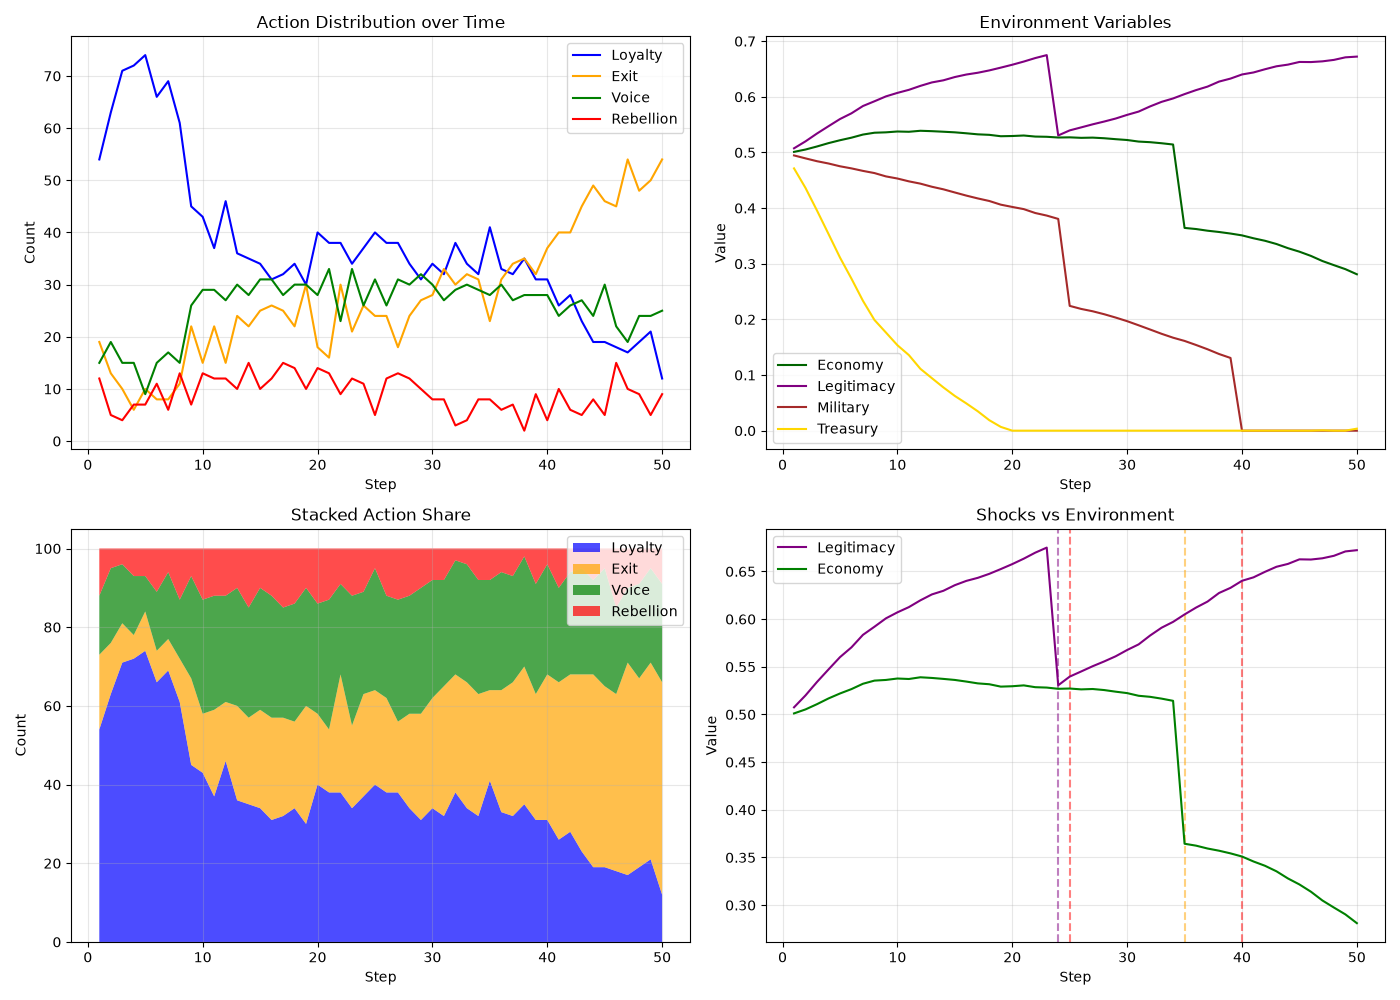
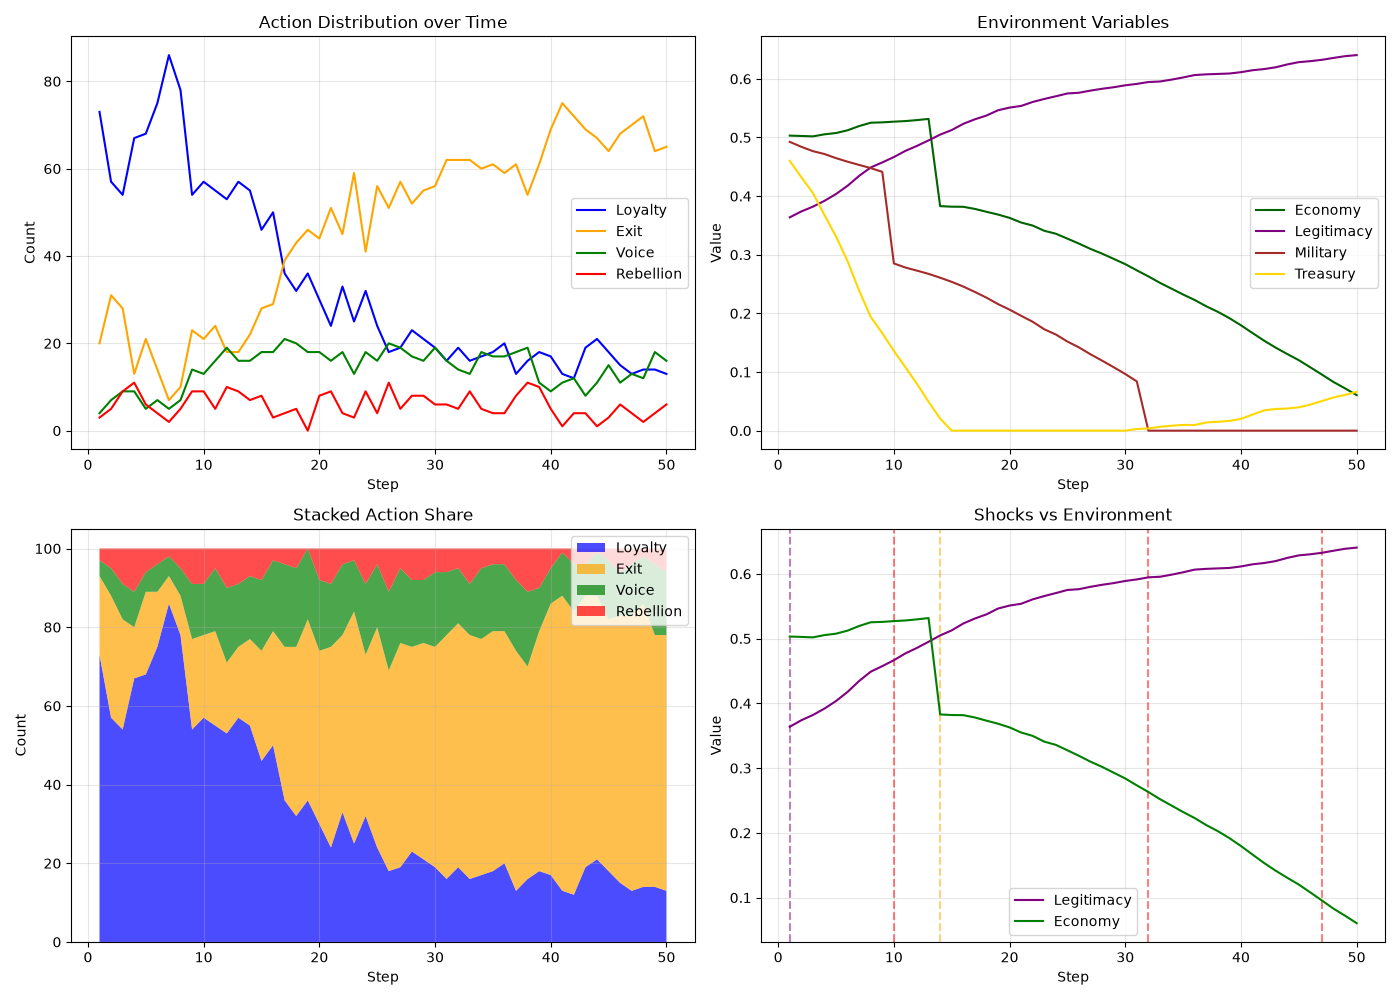
v0.5 - Self-Awareness (gamers, hiders, surveillance)

diff --git a/agent.py b/agent.py
@@ -16,9 +16,16 @@ ARCHETYPE_WEIGHTS = [
     ("clergy", 5), ("merchant", 15), ("peasant", 69)
 ]
 
+# استراتژیهای خودآگاه
+STRATEGIES = ["honest", "gamer", "conformist", "hider"]
+STRATEGY_WEIGHTS = [0.4, 0.2, 0.25, 0.15]
+
 def pick_archetype():
     names, weights = zip(*ARCHETYPE_WEIGHTS)
     return random.choices(names, weights=weights, k=1)[0]
+
+def pick_strategy():
+    return random.choices(STRATEGIES, weights=STRATEGY_WEIGHTS, k=1)[0]
 
 class Agent:
     def __init__(self, agent_id: int):
@@ -31,15 +38,21 @@ class Agent:
         self.risk_aversion = random.uniform(*info["risk"])
         self.current_state = {}
         self._last_action = None
+        self._true_intent = None  # نیت واقعی (پنهان)
         self.shared_memory = None
         self.neighbors: List[int] = []
         self.neighbor_influence = 0.3
-        # اطاعت از حاکم: چقدر به فرمان حاکم گوش میدهد
+
+        # اطاعت از حاکم
         self.obedience = random.uniform(0.2, 0.8)
         if self.archetype in ["courtier", "clergy", "general"]:
-            self.obedience = random.uniform(0.6, 0.95)  # نخبگان مطیعتر
+            self.obedience = random.uniform(0.6, 0.95)
         if self.archetype == "peasant":
-            self.obedience = random.uniform(0.1, 0.5)  # دهقانان کمتر مطیع
+            self.obedience = random.uniform(0.1, 0.5)
+
+        # خودآگاهی
+        self.strategy = pick_strategy()
+        self.exposure_risk = random.uniform(0.1, 0.4)  # ریسک لو رفتن
 
     def perceive(self, state):
         self.current_state = state
@@ -71,7 +84,7 @@ class Agent:
             return {a: 0.25 for a in ["Loyalty", "Exit", "Voice", "Rebellion"]}
         return {a: max(0.01, p / total) if p > 0 else 0.0 for a, p in probs.items()}
 
-    def _neighbor_influence(self, neighbor_actions: Dict[int, str]):
+    def _neighbor_influence(self, neighbor_actions):
         if not self.neighbors or not neighbor_actions:
             return {a: 1.0 for a in ["Loyalty", "Exit", "Voice", "Rebellion"]}
         counts = {"Loyalty": 0, "Exit": 0, "Voice": 0, "Rebellion": 0}
@@ -89,14 +102,38 @@ class Agent:
         return influence
 
     def _leader_influence(self, leader_command, leader_power):
-        """تأثیر فرمان حاکم روی احتمالات"""
         if not leader_command:
             return {a: 1.0 for a in ["Loyalty", "Exit", "Voice", "Rebellion"]}
         influence = {a: 1.0 for a in ["Loyalty", "Exit", "Voice", "Rebellion"]}
-        # ضریب تأثیر = obedience × leader_power
         strength = self.obedience * leader_power
         influence[leader_command] = 1.0 + strength
         return influence
+
+    def _apply_self_awareness(self, true_action):
+        """تبدیل نیت واقعی به عمل ظاهری، بسته به استراتژی"""
+        if self.strategy == "honest":
+            return true_action
+        elif self.strategy == "gamer":
+            # اگر رهبر فرمان Loyalty بده، ایجنت بازیگر Loyalty نشون میده اما نیتش چیز دیگری است
+            if true_action == "Rebellion":
+                # نیت واقعی شورش، اما ظاهرش Loyalty یا Voice
+                if "Loyalty" in self.allowed_actions:
+                    return "Loyalty"
+                return true_action
+            return true_action
+        elif self.strategy == "conformist":
+            # از رفتار غالب همسایهها تقلید میکند (اما نیت واقعی متفاوت)
+            if true_action == "Rebellion" and "Voice" in self.allowed_actions:
+                return "Voice"
+            return true_action
+        elif self.strategy == "hider":
+            # رفتارش را پنهان میکند، ترجیح میدهد بیصدا باشد
+            if true_action == "Rebellion" and "Voice" in self.allowed_actions:
+                return "Voice"
+            if true_action == "Exit" and "Loyalty" in self.allowed_actions:
+                return "Loyalty"
+            return true_action
+        return true_action
 
     def decide(self, state, neighbor_actions=None, leader_command=None, leader_power=0.5):
         probs = self._base_probabilities(state)
@@ -111,20 +148,33 @@ class Agent:
             infl = self._neighbor_influence(neighbor_actions)
             for action in self.allowed_actions:
                 probs[action] *= infl[action]
-        # تأثیر حاکم
         if leader_command is not None:
             linfl = self._leader_influence(leader_command, leader_power)
             for action in self.allowed_actions:
                 probs[action] *= linfl[action]
+
         total = sum(probs.values())
         if total == 0:
-            selected = random.choice(self.allowed_actions)
+            true_action = random.choice(self.allowed_actions)
         else:
             probs = {a: p / total for a, p in probs.items()}
             actions, weights = zip(*probs.items())
-            selected = random.choices(actions, weights=weights, k=1)[0]
-        self._last_action = selected
-        return selected
+            true_action = random.choices(actions, weights=weights, k=1)[0]
+
+        # نیت واقعی
+        self._true_intent = true_action
+
+        # اعمال خودآگاهی
+        displayed_action = self._apply_self_awareness(true_action)
+
+        # اگر استراتژی honest نیست، شانس لو رفتن داره
+        if self.strategy != "honest":
+            if random.random() < self.exposure_risk * 0.1:
+                # لو رفت — عمل واقعی نمایش داده میشود
+                displayed_action = true_action
+
+        self._last_action = displayed_action
+        return displayed_action
 
     def learn(self, outcome):
         if self._last_action is None:

diff --git a/main.py b/main.py
@@ -2,7 +2,7 @@ import random
 from collections import Counter
 from rich.console import Console
 from rich.table import Table
-from agent import Agent
+from agent import Agent, STRATEGIES
 from environment import Environment
 from shared_memory import SharedMemory
 from logger import SimulationLogger
@@ -20,26 +20,28 @@ def main():
     for agent in agents:
         agent.set_neighbors(network.neighbors_of(agent.id))
 
-    # رهبر: ایجنت 0
     leader = Leader(agent_id=0)
-
     shared = SharedMemory()
     for agent in agents:
         agent.set_shared_memory(shared)
 
     logger = SimulationLogger("simulation.csv")
-    console.print("[bold cyan]Omega Protocol - Leadership Edition[/bold cyan]\n")
+    console.print("[bold cyan]Omega Protocol - Self-Awareness Edition[/bold cyan]\n")
 
+    strategy_counts = Counter(a.strategy for a in agents)
+    console.print(f"[cyan]Strategies: {dict(strategy_counts)}[/cyan]\n")
+
+    total_detected = 0
     for step in range(1, 51):
         shock = env.shock()
         state = env.get_state()
-
-        # رهبر فرمان میدهد و قدرتش را بهروز میکند
         leader.update_power(state)
-        command = leader.issue_command(state, {})
+        command = leader.issue_command(state)
 
         actions = []
         neighbor_actions = {}
+        true_intents = {}
+
         for agent in agents:
             agent.perceive(state)
             action = agent.decide(
@@ -50,6 +52,7 @@ def main():
             )
             actions.append(action)
             neighbor_actions[agent.id] = action
+            true_intents[agent.id] = agent._true_intent
 
         result = env.step(actions)
 
@@ -59,6 +62,10 @@ def main():
             success = result["outcome"].get(action, False)
             shared.add(agent.id, action, success, state)
 
+        # رهبر رصد میکند
+        detected = leader.detect_gamers(agents, true_intents)
+        total_detected += detected
+
         if step % 10 == 0:
             shared.decay_old()
 
@@ -66,7 +73,7 @@ def main():
 
         if step % 5 == 0 or step == 1:
             c = result["counts"]; s = result["state"]
-            console.print(f"[bold]Step {step:2d}[/bold] | Cmd:[magenta]{command:9s}[/magenta] Pwr:{leader.power:.2f} | Loy:{c['Loyalty']:3d} Exit:{c['Exit']:3d} Voice:{c['Voice']:3d} Reb:{c['Rebellion']:3d} | Legit:{s['legitimacy']:.2f} Treas:{s['treasury']:.2f}")
+            console.print(f"[bold]Step {step:2d}[/bold] | Cmd:[magenta]{command:9s}[/magenta] Pwr:{leader.power:.2f} Det:{detected:2d} | Loy:{c['Loyalty']:3d} Exit:{c['Exit']:3d} Voice:{c['Voice']:3d} Reb:{c['Rebellion']:3d}")
 
     logger.save()
 
@@ -75,17 +82,24 @@ def main():
     for a in agents:
         for e in a.memory:
             fc[e["action"]] += 1
-    t = Table(title="Action Distribution")
+    t = Table(title="Action Distribution (Displayed)")
     t.add_column("Action", style="cyan"); t.add_column("Count", style="magenta")
     for act in ["Loyalty","Exit","Voice","Rebellion"]:
         t.add_row(act, str(fc.get(act, 0)))
     console.print(t)
 
+    # توزیع استراتژیها
+    strat_t = Table(title="Strategy Distribution")
+    strat_t.add_column("Strategy", style="cyan"); strat_t.add_column("Count", style="magenta")
+    for s in STRATEGIES:
+        strat_t.add_row(s, str(strategy_counts.get(s, 0)))
+    console.print(strat_t)
+
     fs = env.get_state()
     console.print(f"\n[bold]Final - Econ:{fs['economy']:.3f} Legit:{fs['legitimacy']:.3f} Mil:{fs['military']:.3f} Treas:{fs['treasury']:.3f}[/bold]")
     console.print(f"[bold]Final Leader Power: {leader.power:.3f}[/bold]")
-    avg = sum(a.risk_aversion for a in agents) / len(agents)
-    console.print(f"[bold]Avg Risk Aversion: {avg:.3f}[/bold]")
+    console.print(f"[bold]Total Detected (Gamers/Hiders): {total_detected}[/bold]")
+    console.print(f"[bold]Shared Memory: {len(shared.experiences)}[/bold]")
 
 if __name__ == "__main__":
     main()

diff --git a/leader.py b/leader.py
@@ -2,38 +2,46 @@ import random
 from typing import Dict, List
 
 class Leader:
-    """حاکم مرکزی که میتواند فرمان دهد و منابع توزیع کند"""
-
     def __init__(self, agent_id: int):
         self.id = agent_id
-        self.power = 1.0  # قدرت فرماندهی (0 تا 1)
-        self.command = None  # فرمان فعلی
-        self.command_strength = 0.5  # قدرت تأثیر فرمان
+        self.power = 1.0
+        self.command = None
+        self.surveillance_strength = 0.3  # قدرت رصد (0 تا 1)
+        self.detected_gamers = 0
+        self.detected_hiders = 0
 
-    def issue_command(self, env_state: Dict, followers_mood: Dict) -> str:
-        """بر اساس وضعیت، فرمان میدهد"""
+    def issue_command(self, env_state: Dict) -> str:
         legitimacy = env_state.get("legitimacy", 0.5)
         economy = env_state.get("economy", 0.5)
         military = env_state.get("military", 0.5)
         treasury = env_state.get("treasury", 0.5)
-
-        # منطق فرماندهی
         if legitimacy < 0.3:
-            self.command = "Loyalty"  # در بحران مشروعیت: درخواست وفاداری
+            self.command = "Loyalty"
         elif economy < 0.3:
-            self.command = "Voice"  # در بحران اقتصادی: درخواست اعتراض مسالمتآمیز
+            self.command = "Voice"
         elif military < 0.3:
-            self.command = "Loyalty"  # در بحران نظامی: درخواست وفاداری
+            self.command = "Loyalty"
         elif treasury < 0.2:
-            self.command = "Exit"  # در بحران مالی: اجازه خروج
+            self.command = "Exit"
         else:
-            self.command = "Loyalty"  # حالت عادی: وفاداری
-
+            self.command = "Loyalty"
         return self.command
 
     def update_power(self, env_state: Dict):
-        """قدرت حاکم بر اساس وضعیت بهروز میشود"""
         legitimacy = env_state.get("legitimacy", 0.5)
         treasury = env_state.get("treasury", 0.5)
-        # قدرت = ترکیب مشروعیت و خزانه
         self.power = (legitimacy * 0.6 + treasury * 0.4)
+
+    def detect_gamers(self, agents, true_intents):
+        """رصد ایجنتهای بازیگر — فقط اونایی که استراتژیشون gamer یا hider هست"""
+        detected = 0
+        for agent in agents:
+            true_intent = true_intents.get(agent.id)
+            displayed = agent._last_action
+            if true_intent and displayed:
+                if true_intent != displayed:
+                    # تفاوت بین نیت و نمایش — یعنی پنهانکار یا بازیگر
+                    if random.random() < self.surveillance_strength:
+                        detected += 1
+        self.detected_gamers = detected
+        return detected
